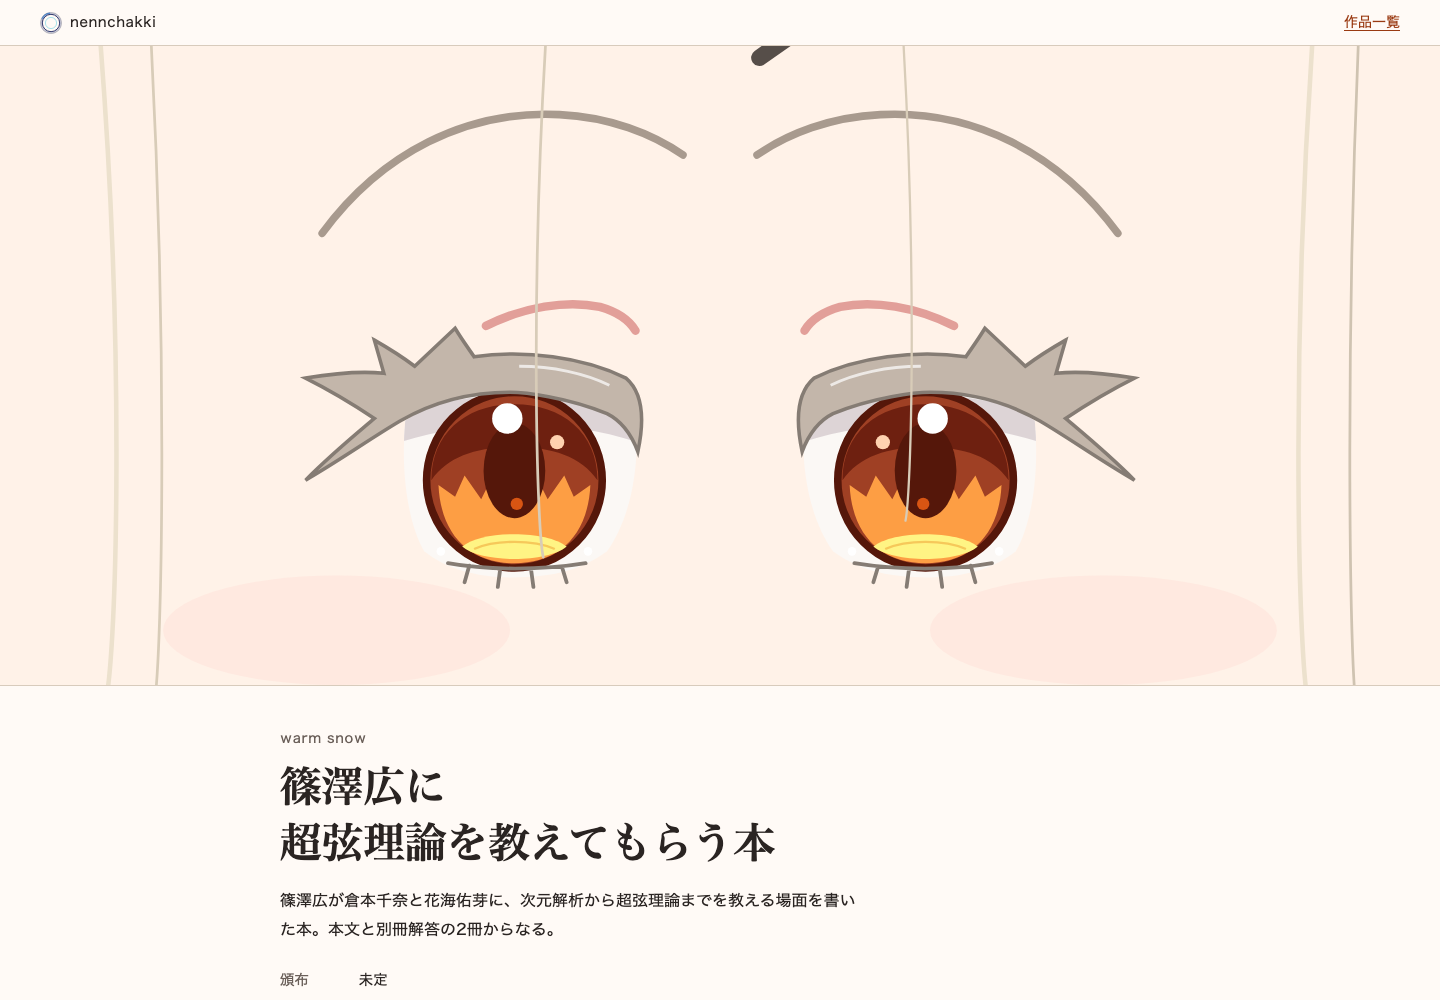
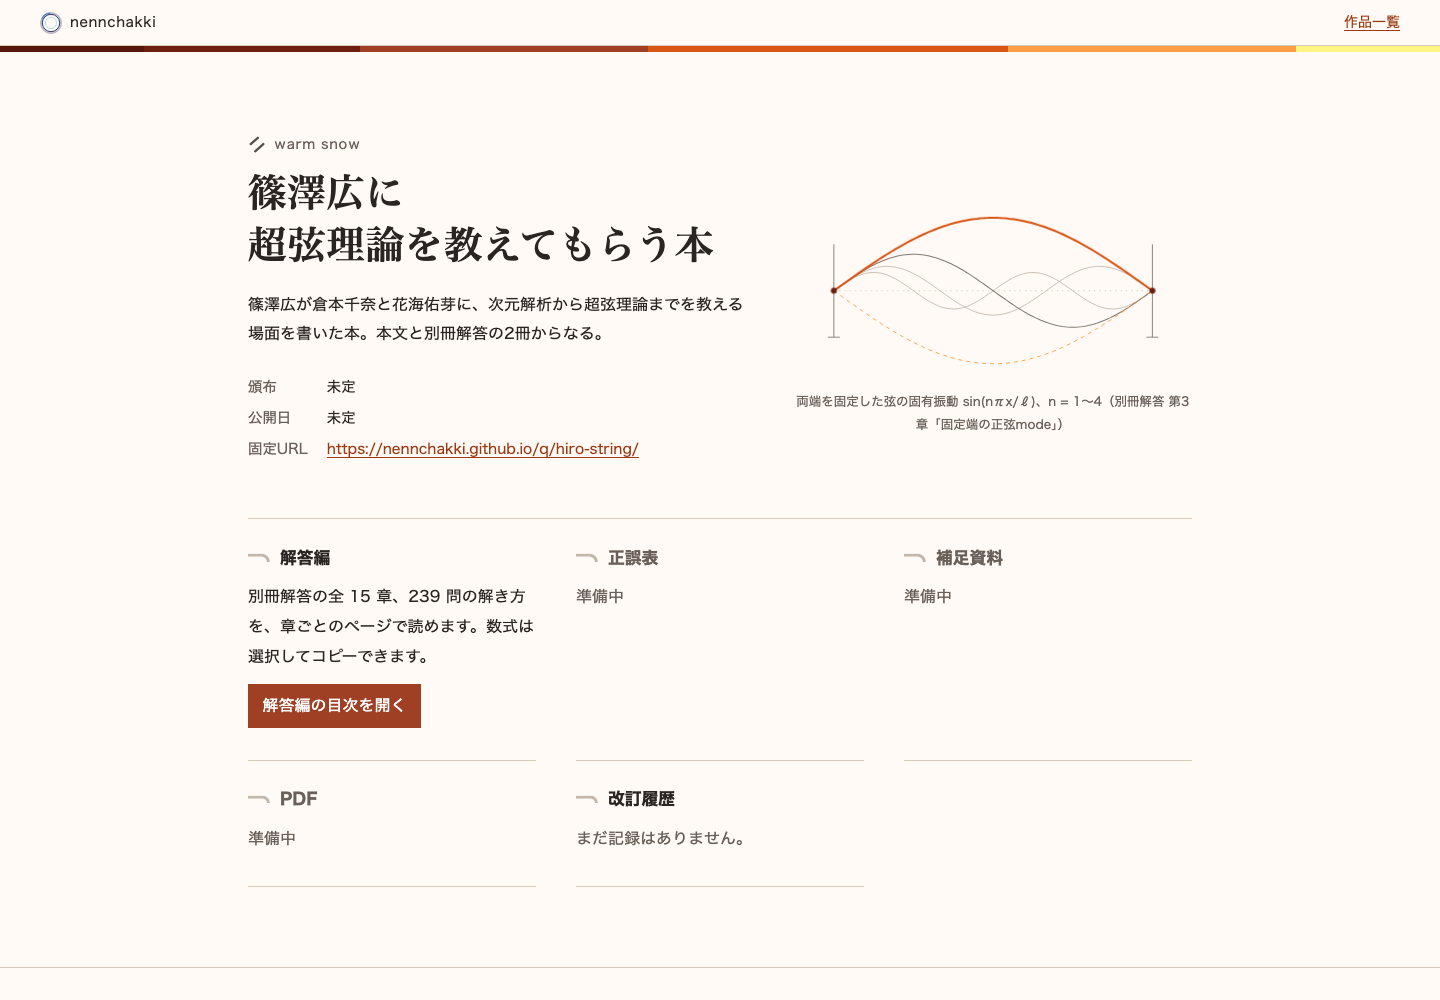
作品ページを作り直す: 目元のクローズアップをやめ、題名と弦の固有振動の図、虹彩の色の帯にする

diff --git a/static/assets/css/themes/hiro.css b/static/assets/css/themes/hiro.css
@@ -1,9 +1,11 @@
 /* 作品ページ：篠澤広に超弦理論を教えてもらう本
-   根拠（docs/research/hiro.md）
-   - ファーストビューは目元。PC は両目を水平に、スマホは左目だけ（§5.2, §5.3）
-   - まつ毛は黒ではなく淡いグレーベージュ（§2.3）→ 罫線と縁取りもこの色
-   - 虹彩の橙赤 #D85513 は1画面で少面積の強調だけに使う（§3）
-   - 原稿の組版はグレーのみ（別冊の TeX の色定義）→ 解答の本文は黒とグレーで組む */
+   根拠（docs/research/hiro.md）。顔や目は描かず、次の要素だけを使う。
+   - 虹彩の層の色（§2.2）: 縁 #55170A → 暗部 #6E2010 → 中間 #9F4024 → 代表色 #D85513 → 明部 #FD9E44 → 底の三日月 #FFF484。
+     ページ上端の細い帯に、この順で並べる（帯の幅の比は図の見やすさで決めた）。
+   - まつ毛の色（§2.3）: 淡いグレーベージュ #C3B6AA、輪郭 #857C74 → 罫線と区切り。黒の罫線は使わない。
+   - ヘアピン 2 本（§4, §5.1）: 平行な濃い斜線 → サークル名の前の小さな記号。
+   - 橙赤の虹彩 #D85513 は1画面に少面積だけ（図の n=1 の線、ボタン）。
+   - 原稿の組版はグレーのみ（別冊の TeX の色定義）→ 解答の本文は黒とグレーで組む。 */
 body[data-theme="hiro"] {
   --ink: #2a2422;
   --ink-soft: #6a5f59;
@@ -15,47 +17,55 @@ body[data-theme="hiro"] {
   --iris: #d85513;
   --iris-deep: #9f4024;
   --iris-light: #fd9e44;
-  --lid: #e29f99;
   --link: #9a3a12;
   --focus: #d85513;
   background: var(--paper);
 }
 body[data-theme="hiro"] .site-header { background: var(--paper); border-bottom: 1px solid var(--rule); }
 
-/* ---------- ファーストビュー ---------- */
-.hiro-hero {
-  position: relative;
-  height: min(64vh, 44rem);
-  min-height: 22rem;
-  overflow: hidden;
-  border-bottom: 1px solid var(--rule);
-  background: #fff2e8;
-}
-.hiro-hero svg { position: absolute; inset: 0; width: 100%; height: 100%; display: block; }
-.hiro-hero picture img { position: absolute; inset: 0; width: 100%; height: 100%; object-fit: cover; display: block; }
-.hiro-hero.img-failed picture { display: none; }
-.hiro-eyes-tall { display: none !important; }
-@media (max-width: 48rem) and (max-aspect-ratio: 4/5) {
-  .hiro-hero { height: min(66vh, 44rem); }
-  .hiro-eyes-wide { display: none !important; }
-  .hiro-eyes-tall { display: block !important; }
-}
+/* 虹彩の色の帯 */
+.iris-band { display: flex; height: 6px; }
+.iris-band span:nth-child(1) { flex: 2; background: #55170a; }
+.iris-band span:nth-child(2) { flex: 3; background: #6e2010; }
+.iris-band span:nth-child(3) { flex: 4; background: #9f4024; }
+.iris-band span:nth-child(4) { flex: 5; background: #d85513; }
+.iris-band span:nth-child(5) { flex: 4; background: #fd9e44; }
+.iris-band span:nth-child(6) { flex: 2; background: #fff484; }
 
-.work-inner { max-width: 60rem; margin: 0 auto; padding: 0 clamp(1rem, 4vw, 2.5rem); }
-.work-head { padding: 2.5rem 0 1.5rem; display: grid; gap: 0.2rem; }
-.work-head .work-circle { margin: 0; color: var(--ink-soft); font-size: 0.85rem; letter-spacing: 0.05em; }
+.work-inner { max-width: 64rem; margin: 0 auto; padding: 0 clamp(1rem, 4vw, 2.5rem); }
+.work-head {
+  display: grid;
+  grid-template-columns: minmax(0, 1.25fr) minmax(0, 1fr);
+  gap: 2rem 3rem;
+  align-items: center;
+  padding: clamp(2.5rem, 7vw, 5rem) 0 clamp(2rem, 5vw, 3.5rem);
+}
+.work-head .work-circle {
+  margin: 0; display: flex; align-items: center; gap: 0.5rem;
+  color: var(--ink-soft); font-size: 0.85rem; letter-spacing: 0.05em;
+}
 .work-head h1 {
-  margin: 0.2rem 0 0.8rem;
+  margin: 0.6rem 0 1.2rem;
   font-family: var(--serif);
-  font-size: clamp(1.7rem, 5vw, 2.6rem);
+  font-size: clamp(1.45rem, 3.1vw, 2.4rem);
   line-height: 1.35;
   font-weight: 600;
+  letter-spacing: 0.02em;
 }
-.work-head .cover { max-width: 16rem; height: auto; border: 1px solid var(--rule); }
-.work-head .work-summary { margin: 0; max-width: 36rem; }
-.work-meta { display: grid; grid-template-columns: auto 1fr; gap: 0.2rem 1.2rem; margin: 1.2rem 0 0; font-size: 0.9rem; }
+.work-head h1 .tl { display: block; white-space: nowrap; }
+@media (max-width: 22rem) { .work-head h1 .tl { white-space: normal; } }
+.work-head .work-summary { margin: 0; max-width: 32rem; }
+.work-meta { display: grid; grid-template-columns: auto 1fr; gap: 0.25rem 1.2rem; margin: 1.6rem 0 0; font-size: 0.9rem; }
 .work-meta dt { color: var(--ink-soft); }
 .work-meta dd { margin: 0; overflow-wrap: anywhere; }
+
+.hero-figure { margin: 0; }
+.hero-figure svg, .hero-figure img { display: block; width: 100%; height: auto; }
+.hero-figure figcaption { margin-top: 0.4rem; font-size: 0.78rem; color: var(--ink-soft); text-align: center; }
+@media (prefers-reduced-motion: no-preference) {
+  .string-modes .mode-1 { animation: hiro-mode 5s ease-in-out infinite alternate; transform-origin: 50% 58.8%; transform-box: view-box; }
+}
+@keyframes hiro-mode { from { transform: scaleY(1); } to { transform: scaleY(-1); } }
 
 .w-secs { display: grid; grid-template-columns: repeat(auto-fit, minmax(16rem, 1fr)); gap: 0 2.5rem; border-top: 1px solid var(--rule); }
 .w-sec { padding: 1.4rem 0 1.6rem; border-bottom: 1px solid var(--rule); }
@@ -76,6 +86,8 @@ body[data-theme="hiro"] .site-header { background: var(--paper); border-bottom: 
 
 body[data-theme="hiro"] .log li { border-bottom-color: var(--rule); }
 
-@media (max-width: 40rem) {
+@media (max-width: 48rem) {
+  .work-head { grid-template-columns: 1fr; gap: 1.5rem; }
+  .hero-figure { max-width: 30rem; }
   .w-secs { grid-template-columns: 1fr; }
 }

diff --git a/docs/design.md b/docs/design.md
@@ -5,7 +5,7 @@
 | URL | 内容 | テーマ |
 |---|---|---|
 | `/` | 総合トップ。作品一覧と更新記録 | noa |
-| `/works/<作品>/` | 作品ページ。説明、資料ごとの公開状態、固定 URL、改訂履歴 | 作品ごと（広の本は hiro） |
+| `/works/<作品>/` | 作品ページ。題名、説明、資料ごとの公開状態、固定 URL、改訂履歴 | 作品ごと（広の本は hiro） |
 | `/works/hiro-string/answers/` | 解答編の目次（部・章・問題数）と、別冊の前付け（この別冊について・記号・略称） | hiro |
 | `/works/hiro-string/answers/ch01/` 〜 `ch15/` | 章ごとの解答。章内目次、問題ごとの解答、前後の章への移動 | hiro |
 | `/q/hiro-string/` | 印刷物の QR コードの入口。JavaScript なし、リンクだけ | 共通（テーマなし） |
@@ -49,30 +49,24 @@
 
 根拠は `docs/research/hiro.md`。
 
-- ファーストビューは目元だけにした。タイトルは画像に重ねず、その下に置いた。
-- PC（横長）では両目を水平に並べ、目 1 つの幅を画面幅の約 16%、目の高さを画面の約 58% に置いた（§5.2）。
-- スマートフォン（幅 48rem 以下で、縦横比が 4:5 より縦長）では、広の左目だけを大きく出し、上に眉、下に頬の赤みを入れた（§5.3）。ヘアピンは左目の上にある（§4）。縦長の切り抜きでは画面の外に出るので、PC の図で確認できる。
-- 残した要素は §5.1 の優先順: 橙赤の虹彩と底の黄色い三日月、淡いグレーベージュの上まつ毛の帯（上へ立つ突起 2 本、目尻へ伸びる尾 2 本、目頭の鉤）、ピンクの二重線、高い位置の細く淡い眉、ヘアピン 2 本、虹彩の真下だけの下まつ毛（とげ 4 本）、顔の前に垂れる淡い髪の束。
-- まつ毛は黒にしていない（公式の描き方が淡いグレーベージュのため）。
-- 作品ページの罫線と区切りは、まつ毛の色（#c3b6aa / #d8cbbc）にした。資料の見出しの前の小さな弧は、目頭の鉤の形。
+最初の版では、ファーストビューを広の目元のクローズアップにした。ページを開いた瞬間に大きな目だけが出るのは不気味だという指摘を受け、2026-11-09 に顔や目を描かない構成に作り直した。
+
+- 冒頭にタイトルと作品の情報を置き、その横（スマートフォンでは下）に図を置く。
+- ヘッダーの下の細い帯は、虹彩の層の色を外側から順に並べたもの（縁 #55170A → 暗部 #6E2010 → 中間 #9F4024 → 代表色 #D85513 → 明部 #FD9E44 → 底の三日月 #FFF484。§2.2）。帯の各色の幅の比は見やすさで決めた。
+- 図は、両端を固定した弦の固有振動 sin(nπx/ℓ)（n = 1〜4）。別冊解答 第3章「固定端の正弦mode」の固有関数で、本の内容から取った。n = 1 だけを虹彩の代表色で描き、ほかはまつ毛の色にした。破線は n = 1 の半周期後の形。n = 1 の線は、`prefers-reduced-motion` が指定されていなければ上下にゆっくり振れる。
+- サークル名の前の小さな記号は、ヘアピン 2 本（平行な濃い斜線。§4、§5.1）。
+- 罫線と区切りは、まつ毛の色（#c3b6aa / #d8cbbc）にした。黒にしないのは、公式の描き方でまつ毛が淡いグレーベージュだから（§2.3）。資料の見出しの前の小さな弧は、目頭の鉤の形。
 - 解答の章ページは、原稿の組版がグレーだけで組まれている（`\definecolor{HiroBlue}{gray}{0.15}` など）ので、黒とグレーで組み、橙赤は使っていない。
 
-### 目元の画像の差し替え
+### 図の差し替え
 
-公式画像は転載できない（`docs/research/hiro.md` §6）。いまの目元は基本図形で描いた SVG である。
-作者が描いた絵や、許諾を得た絵に差し替えるときは、`content/hiro-string/work.json` に次を足す。
+公式画像は転載できない（`docs/research/hiro.md` §6）。表紙などの画像を載せるときは、`content/hiro-string/work.json` に `cover`（表紙）か `hero`（図の代わりの画像）を書く。
 
 ```json
-"hero": {
-  "type": "image",
-  "alt": "画像の説明",
-  "pc": { "src": "/assets/works/hiro-string/hero-pc.webp", "width": 2400, "height": 1050 },
-  "sp": { "src": "/assets/works/hiro-string/hero-sp.webp", "width": 1200, "height": 1800 }
-}
+"hero": { "type": "image", "src": "/assets/works/hiro-string/figure.webp", "width": 1200, "height": 800, "alt": "画像の説明" }
 ```
 
-画像は `static/assets/works/hiro-string/` に置く。PC と SP で別の切り抜きにできる（`<picture>` で縦長の画面だけ SP の画像を使う）。
-画像が読み込めないときは、SVG の目元に戻る。
+画像は `static/assets/works/hiro-string/` に置く。画像が読み込めないときは、図の枠ごと非表示になる。`cover` を書くと、図の位置に表紙が出る。
 
 ## 5. 技術選定
 
